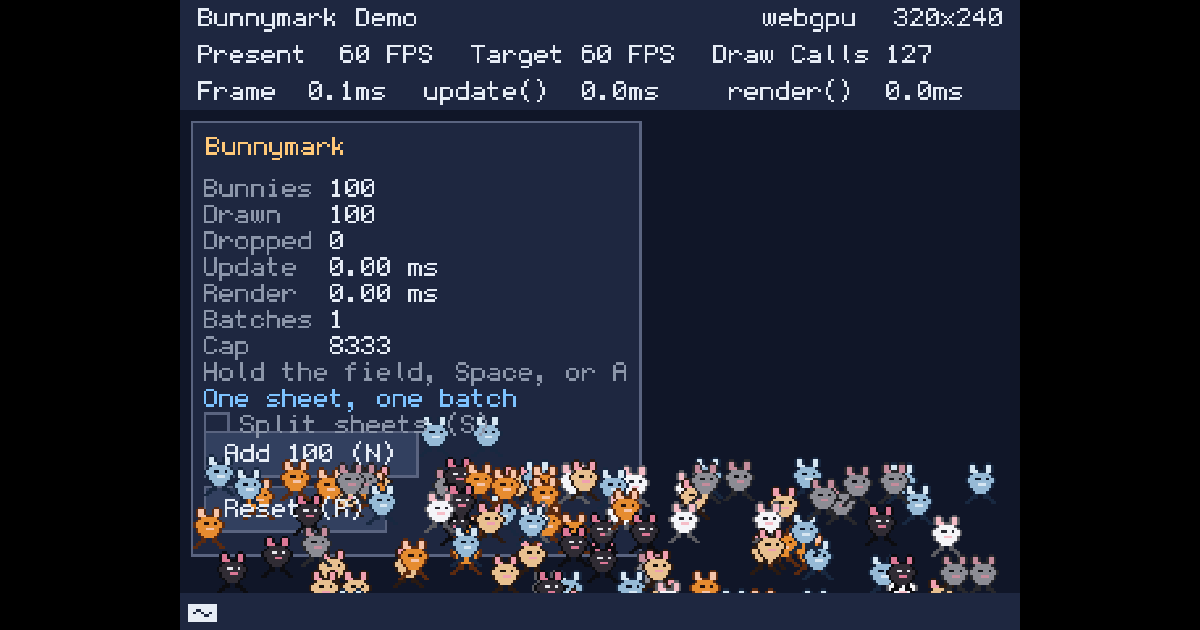
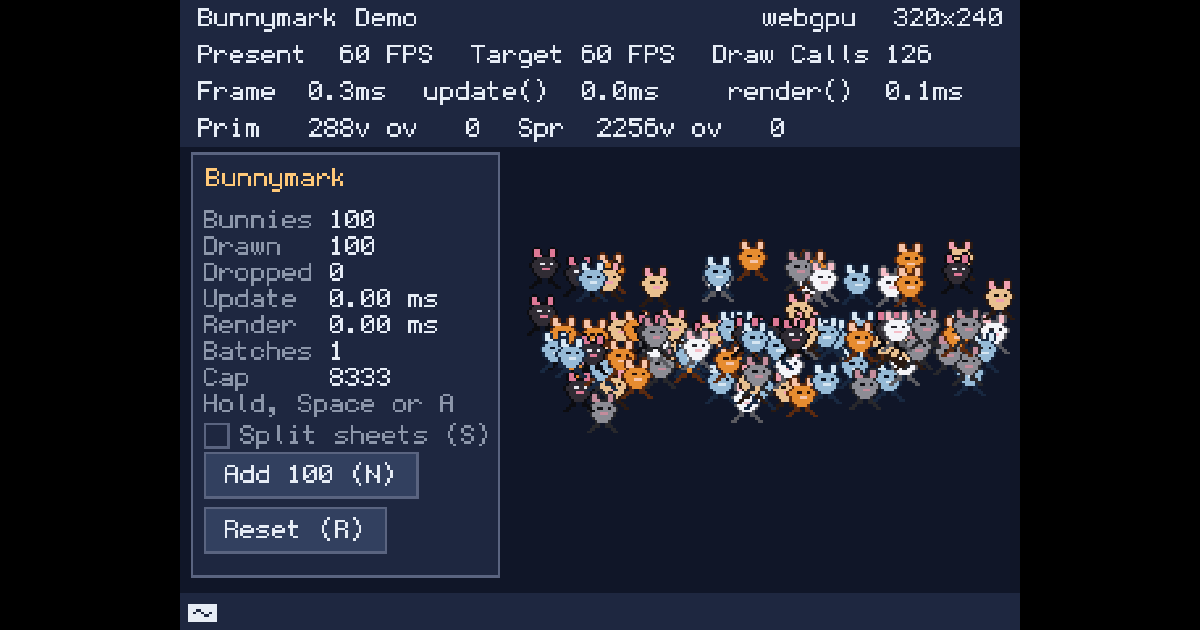
feat(demos): add bunnymark timing switches and keep bunnies off the panel
Add ?bunnies=N and ?split URL switches so timing runs start from a
known crowd without clicking. The count is validated and clamped to
MAX_BUNNIES. Turn on the overlay's renderer diagnostics row so the
panel's Dropped count can be checked against the engine's own
sprite overflow counter.

Give the panel a fixed width and bounce the bunnies to the right of
it, since sprites draw over UI panels and used to cover the numbers.
Use UI_ANCHORS instead of a bare anchor string, shorten the HUD notes
to fit, and say in the header that the Batches row mirrors the
pipeline's flush rule until the engine reports it (BT-114).

Correct the demo count in packages/demos/CLAUDE.md to 48 / 44 and
regenerate the OG card for the new layout.

Changed region(s): [[0.1542, 0.181, 0.8633, 0.9651], [0.8017, 0.7238, 0.8325, 0.7841], [0.2775, 0.1206, 0.3083, 0.1508]]

diff --git a/packages/demos/src/bunnymark.js b/packages/demos/src/bunnymark.js
@@ -16,13 +16,29 @@
 //
 // The engine overlay (press ` or the bottom-left corner) shows Present FPS and Draw Calls.
 // This demo turns that overlay on at startup. Draw Calls counts each BT.drawSprite, so it
-// climbs with the bunny count either way. The Batches row on the panel is the real GPU
-// number: one sheet stays one batch, and alternating sheets breaks that batch.
+// climbs with the bunny count either way. The Batches row on the panel is the GPU number,
+// worked out here by following the sprite pipeline's rule (a new batch whenever the sheet
+// changes), because the engine does not report it yet (BT-114). One sheet stays one batch,
+// and alternating sheets breaks that batch on every bunny. The overlay's
+// bottom row (Prim / Spr) is the engine's own vertex count and overflow ("ov") for the frame,
+// so you can check this panel's Dropped number against the engine itself.
+//
+// For repeatable timing runs, two URL switches skip the clicking:
+//   ?bunnies=5000   start with that many bunnies instead of one batch
+//   ?split          start with Split sheets already on
+// Add &backend=software to the same URL to time the software renderer instead.
 
 import { bootstrap, BT, Color32, Rect2i, SpriteSheet, Vector2i } from 'blit386';
 
 import { canvasToImage } from './shared/canvas-sprites.js';
-import { applyTheme, THEME_DEFAULT_START_SLOT, THEME_PANEL_OFFSET, THEME_TEXT_OFFSET, ui } from './shared/ui.js';
+import {
+    applyTheme,
+    THEME_DEFAULT_START_SLOT,
+    THEME_PANEL_OFFSET,
+    THEME_TEXT_OFFSET,
+    ui,
+    UI_ANCHORS,
+} from './shared/ui.js';
 
 /** @typedef {import('blit386').IBTDemo} IBTDemo */
 /** @typedef {import('blit386').HardwareSettings} HardwareSettings */
@@ -122,6 +138,23 @@ const SPAWN_VY_MAX = -2;
 
 // Where bunnies appear when the pointer isn't the thing asking for them.
 const FOUNTAIN_Y = 56;
+
+// The panel has a fixed width so the bunnies can be kept out of it: sprites are drawn
+// on top of UI panels, so a bunny inside the panel would cover the numbers. 118 pixels
+// fits the widest row: 18 letters of 6 pixels, plus 5 pixels of padding each side.
+const PANEL_W = 118;
+
+// Gap between the screen edge and the panel, and the panel's top edge. The top edge
+// sits below the engine overlay so the two never overlap.
+const PANEL_MARGIN = 4;
+const PANEL_Y = 58;
+
+// The bunnies' left wall: just right of the panel. Everything left of it belongs to the HUD.
+const ARENA_LEFT = PANEL_MARGIN + PANEL_W + PANEL_MARGIN;
+
+// URL switches for timing runs (see the header comment). ?bunnies is clamped to MAX_BUNNIES.
+const PARAM_BUNNIES = 'bunnies';
+const PARAM_SPLIT = 'split';
 
 // Six recolors of the same four slots. Order inside each row is outline, fur,
 // inner ear / belly, eye. paletteOffset selects a row at draw time.
@@ -346,6 +379,9 @@ class Demo {
     spawnX = 0;
     spawnY = FOUNTAIN_Y;
 
+    // Middle of the bunnies' area, worked out once in init() from the screen width.
+    fountainX = 0;
+
     // Timers. pending* collects every update() since the last render(); the
     // shown values stay put on a frame that ran no update (common at 120 Hz).
     pendingUpdateMs = 0;
@@ -366,6 +402,8 @@ class Demo {
     configure() {
         return {
             isOverlayVisibleAtStart: true,
+            // Adds the Prim / Spr row: the engine's own vertex use and overflow count.
+            isOverlayRendererDiagnosticsBarEnabled: true,
             overlayStyle: {
                 textPaletteIndex: UI_TEXT,
                 barPaletteIndex: UI_PANEL,
@@ -401,9 +439,11 @@ class Demo {
             return false;
         }
 
-        this.spawnX = (this.screenW - BUNNY_W) >> 1;
-        this.spawnY = FOUNTAIN_Y;
-        this.spawnBatch();
+        // The fountain sits in the middle of the bunnies' area, right of the panel.
+        // `>> 1` halves a whole number, like Math.floor(n / 2).
+        this.fountainX = (ARENA_LEFT + this.screenW - BUNNY_W) >> 1;
+
+        this.applyUrlSwitches();
 
         return true;
     }
@@ -419,7 +459,7 @@ class Demo {
         this.stepBunnies();
 
         if (this.wantsSpawn()) {
-            this.spawnBatch();
+            this.spawnBatch(SPAWN_BATCH);
         }
 
         this.pendingUpdateMs += performance.now() - start;
@@ -453,6 +493,25 @@ class Demo {
             splitSheets: this.splitSheets,
             limitsSprites: this.limitsSprites,
         };
+    }
+
+    /**
+     * Reads the optional ?bunnies=N and ?split URL switches, so a timing run can
+     * start with a known crowd instead of a lot of clicking. Without ?bunnies the
+     * demo starts with one ordinary batch.
+     */
+    applyUrlSwitches() {
+        const params = new URLSearchParams(window.location.search);
+
+        // The URL is typed by a person, so check it: Number('abc') is NaN, and a
+        // negative or huge count must not reach the arrays.
+        const asked = Number(params.get(PARAM_BUNNIES));
+        const start = Number.isFinite(asked) && asked > 0 ? Math.min(Math.floor(asked), MAX_BUNNIES) : SPAWN_BATCH;
+
+        this.splitSheets = params.has(PARAM_SPLIT);
+        this.spawnX = this.fountainX;
+        this.spawnY = FOUNTAIN_Y;
+        this.spawnBatch(start);
     }
 
     /**
@@ -507,8 +566,9 @@ class Demo {
             let y = ys[i] + vy;
 
             // Past the side walls: pin to the wall and reverse sideways speed.
-            if (x < 0) {
-                x = 0;
+            // The left wall is the panel's right edge, not the screen edge.
+            if (x < ARENA_LEFT) {
+                x = ARENA_LEFT;
                 vx = -vx;
             } else if (x > right) {
                 x = right;
@@ -560,7 +620,7 @@ class Demo {
 
         // Pointer spawn already stored a point. Everything else uses the fountain.
         if (!fromPointer) {
-            this.spawnX = (this.screenW - BUNNY_W) >> 1;
+            this.spawnX = this.fountainX;
             this.spawnY = FOUNTAIN_Y;
         }
 
@@ -596,14 +656,15 @@ class Demo {
     }
 
     /**
-     * Keeps the spawn point on screen so a click in the corner still shows a bunny.
+     * Keeps the spawn point inside the bunnies' area, so a click in the corner (or
+     * on the panel) still shows a bunny.
      */
     clampSpawn() {
         const right = this.screenW - BUNNY_W;
         const floor = this.screenH - BUNNY_H;
 
-        if (this.spawnX < 0) {
-            this.spawnX = 0;
+        if (this.spawnX < ARENA_LEFT) {
+            this.spawnX = ARENA_LEFT;
         } else if (this.spawnX > right) {
             this.spawnX = right;
         }
@@ -616,10 +677,12 @@ class Demo {
     }
 
     /**
-     * Writes the next batch into the free slots at the end of the arrays.
+     * Writes the next `size` bunnies into the free slots at the end of the arrays.
      * Random velocities come from the seeded BT.random stream.
+     *
+     * @param {number} size - How many bunnies to add. Stops early at MAX_BUNNIES.
      */
-    spawnBatch() {
+    spawnBatch(size) {
         this.clampSpawn();
 
         const random = BT.random;
@@ -631,7 +694,7 @@ class Demo {
         const x = this.spawnX;
         const y = this.spawnY;
         let n = this.count;
-        const end = Math.min(MAX_BUNNIES, n + SPAWN_BATCH);
+        const end = Math.min(MAX_BUNNIES, n + size);
 
         while (n < end) {
             xs[n] = x;
@@ -704,7 +767,8 @@ class Demo {
         const updateLabel =
             this.updateSteps > 1 ? `${formatMs(this.updateMs)} x${this.updateSteps}` : formatMs(this.updateMs);
 
-        ui.begin('topLeft', { y: 46, kvCols: 8 });
+        // Fixed width and position, so ARENA_LEFT always matches the panel's right edge.
+        ui.begin(UI_ANCHORS.TOP_LEFT, { y: PANEL_Y, width: PANEL_W, margin: PANEL_MARGIN, kvCols: 8 });
         ui.panel('Bunnymark');
         ui.kv('Bunnies', this.count);
         ui.kv('Drawn', this.drawn);
@@ -714,9 +778,12 @@ class Demo {
         ui.kv('Batches', this.spriteBatches);
         ui.kv('Cap', SPRITE_QUAD_CAP);
         ui.label(this.hudNote(), { color: this.dropped > 0 ? 'warm' : 'dim' });
-        ui.label(this.splitSheets ? 'Alternating sheets' : 'One sheet, one batch', { color: 'info' });
 
+        // The Batches row above already says which mode is on, so the checkbox needs no
+        // extra label. A small gap keeps its box clear of the text and the button.
+        ui.spacer(2);
         this.splitSheets = ui.checkbox('Split sheets (S)', this.splitSheets, { key: 'KeyS' });
+        ui.spacer(4);
 
         if (ui.button('Add 100 (N)', { key: KEY_ADD })) {
             this.addPressed = true;
@@ -740,14 +807,14 @@ class Demo {
         }
 
         if (!this.limitsSprites) {
-            return 'Software draws every bunny';
+            return 'Software: no cap';
         }
 
         if (this.dropped > 0) {
-            return 'Past the cap, extras skipped';
+            return 'Over cap: skipped';
         }
 
-        return 'Hold the field, Space, or A';
+        return 'Hold, Space or A';
     }
 }
 

diff --git a/packages/demos/CLAUDE.md b/packages/demos/CLAUDE.md
@@ -158,7 +158,7 @@ sound" prompt gated on `BT.isAudioUnlocked` and never assumes a first-frame SFX 
 
 All demo UI - panels, labels, key-value rows, checkboxes, pips, buttons, sliders, meters, the touch D-pad, swipes, tap
 zones - comes from the immediate-mode kit in `src/shared/ui.js`. Read that file for the current widget list and options.
-Never hand-roll panels, buttons, or HUD text colors in a demo. Of the 46 demos, 42 import it; the intentional exceptions
+Never hand-roll panels, buttons, or HUD text colors in a demo. Of the 48 demos, 44 import it; the intentional exceptions
 are `flurry`, `hello-world`, `hypercube`, `logo-lowres` (a bare-bones starter plus three immersive/showcase pieces, none
 with a demo HUD).
 
